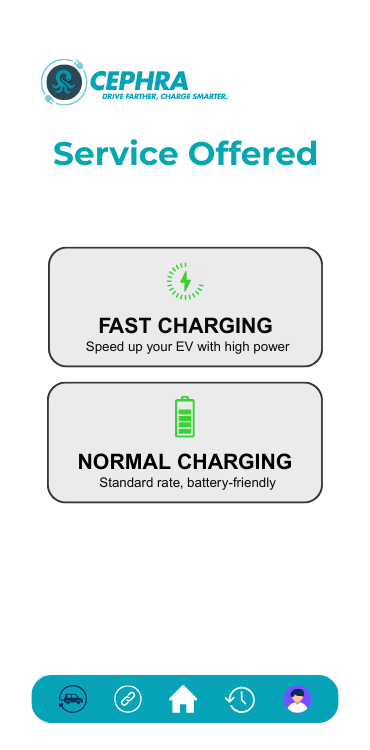
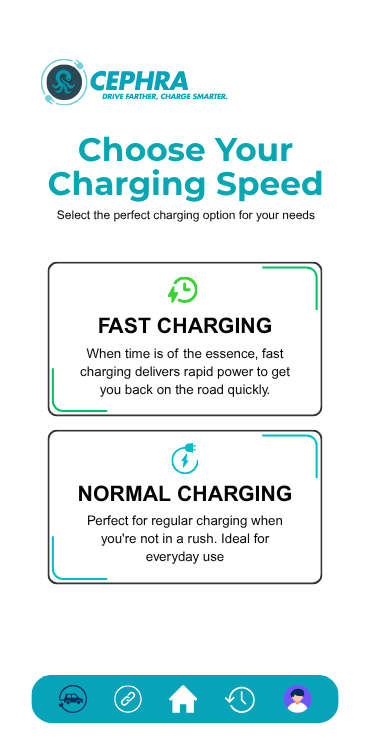
Adjust layout constraints and bounds for normal and fast charge buttons

Changed region(s): [[0.1189, 0.184, 0.8919, 0.7973]]

diff --git a/src/main/java/cephra/Phone/Dashboard/ChargingOption.java b/src/main/java/cephra/Phone/Dashboard/ChargingOption.java
@@ -67,7 +67,7 @@ public class ChargingOption extends javax.swing.JPanel {
             }
         });
         add(normalcharge);
-        normalcharge.setBounds(50, 380, 280, 120);
+        normalcharge.setBounds(50, 430, 270, 150);
 
         profilebutton.setBorder(null);
         profilebutton.setBorderPainted(false);
@@ -102,7 +102,7 @@ public class ChargingOption extends javax.swing.JPanel {
             }
         });
         add(fastcharge);
-        fastcharge.setBounds(50, 243, 280, 120);
+        fastcharge.setBounds(50, 260, 270, 150);
 
         linkbutton.setBorder(null);
         linkbutton.setBorderPainted(false);
